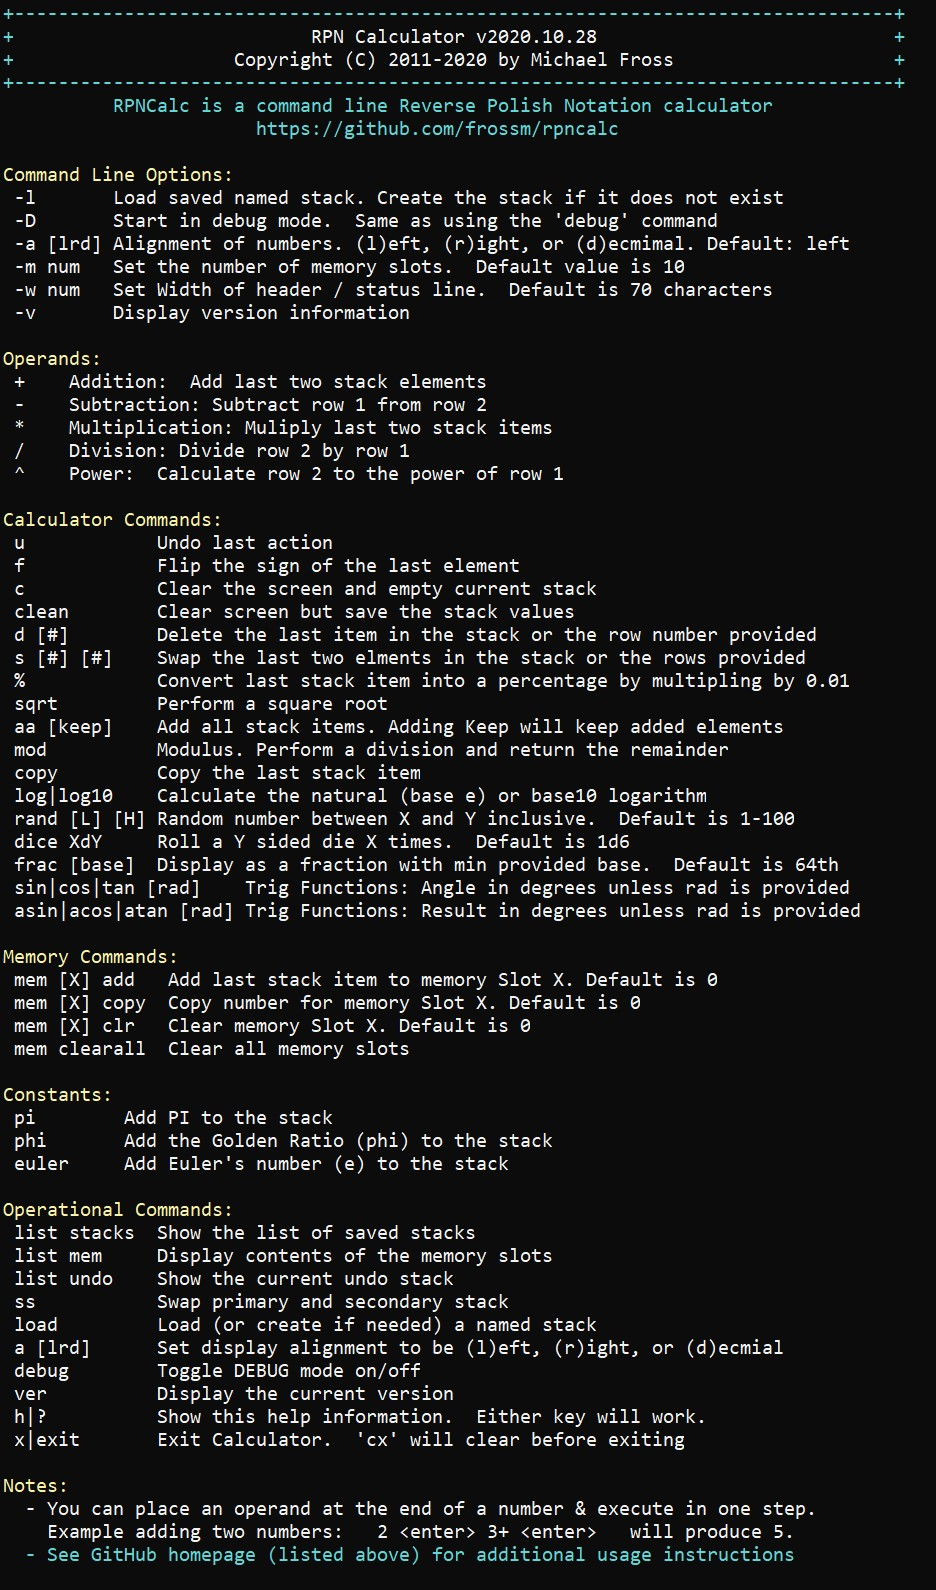
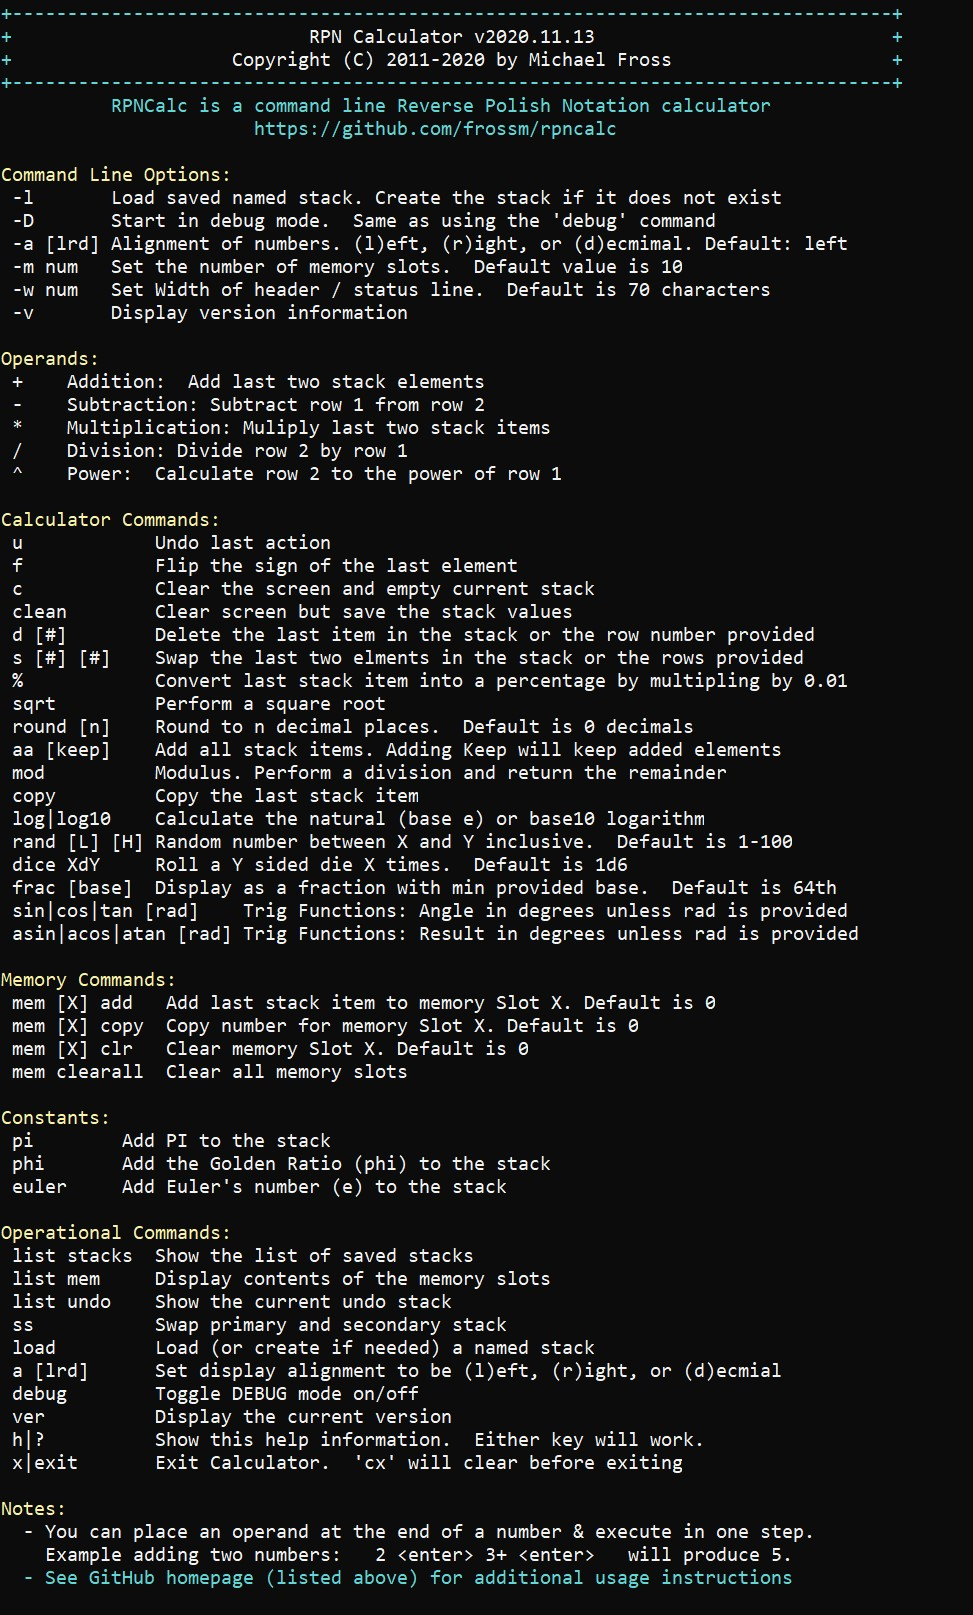
Added round [n] function

Changed region(s): [[0.0, 0.0, 0.9295, 0.9862], [0.8985, 0.0, 0.9295, 0.0616], [0.0, 0.0, 0.031, 0.0616]]

diff --git a/src/main/java/org/fross/rpncalc/StackOps.java b/src/main/java/org/fross/rpncalc/StackOps.java
@@ -26,6 +26,8 @@
  ******************************************************************************/
 package org.fross.rpncalc;
 
+import java.math.BigDecimal;
+import java.math.RoundingMode;
 import java.util.Stack;
 
 import org.fross.library.Debug;
@@ -346,6 +348,52 @@ public class StackOps {
 	}
 
 	/**
+	 * cmdRound(): Round to the provided decimal place. If none is provided round to the nearest integer
+	 * 
+	 * Reference: https://www.baeldung.com/java-round-decimal-number
+	 * 
+	 * @param arg
+	 */
+	@SuppressWarnings("unchecked")
+	public static void cmdRound(String arg) {
+		int decimalPlaces = 0;
+		BigDecimal bd;
+
+		// Ensure we have something on the stack
+		if (Main.calcStack.isEmpty()) {
+			Output.printColorln(Ansi.Color.RED, "ERROR:  There must be at least one item on the stack");
+			return;
+		}
+
+		// Save to undo stack
+		Main.undoStack.push((Stack<Double>) Main.calcStack.clone());
+
+		// Convert the arg to the number of decimal places
+		try {
+			decimalPlaces = Integer.parseInt(arg);
+			// Ensure a negative number is not provdied for decimal points to round
+			if (decimalPlaces <= 0) {
+				Output.printColorln(Ansi.Color.RED, "ERROR:  '" + arg + "' not a valid number of decimal places");
+				return;
+			}
+
+		} catch (NumberFormatException ex) {
+			if (arg.isBlank()) {
+				decimalPlaces = 0;
+			} else {
+				// Error out for any non-valid characters
+				Output.printColorln(Ansi.Color.RED, "ERROR:  '" + arg + "' not a valid number of decimal places");
+				return;
+			}
+		}
+
+		// Round the top of stack item and return that result to the stack
+		bd = new BigDecimal(Main.calcStack.pop());
+		bd = bd.setScale(decimalPlaces, RoundingMode.HALF_UP);
+		Main.calcStack.push(bd.doubleValue());
+	}
+
+	/**
 	 * cmdMod(): Divide and place the modulus onto the stack
 	 */
 	public static void cmdMod() {
@@ -396,7 +444,7 @@ public class StackOps {
 			Output.printColorln(Ansi.Color.RED, "Error parsing low and high parameters.  Low: '" + low + "' High: '" + high + "'");
 			return;
 		} catch (Exception e) {
-			Output.printColorln(Ansi.Color.RED, "Error:\n" + e.getMessage());
+			Output.printColorln(Ansi.Color.RED, "ERROR:\n" + e.getMessage());
 		}
 
 		// Display Debug Output
@@ -404,7 +452,7 @@ public class StackOps {
 
 		// Verify that the low number <= the high number
 		if (low > high) {
-			Output.printColorln(Ansi.Color.RED, "Error: the first number much be less than or equal to the high number");
+			Output.printColorln(Ansi.Color.RED, "ERROR: the first number much be less than or equal to the high number");
 			return;
 		}
 
@@ -491,7 +539,7 @@ public class StackOps {
 			Output.printColorln(Ansi.Color.RED, "Error parsing die and rolls.  Rolls: '" + rolls + "' Die: '" + die + "'");
 			return;
 		} catch (Exception e) {
-			Output.printColorln(Ansi.Color.RED, "Error:\n" + e.getMessage());
+			Output.printColorln(Ansi.Color.RED, "ERROR:\n" + e.getMessage());
 		}
 
 		// Display Debug Output
@@ -789,7 +837,7 @@ public class StackOps {
 					Output.printColorln(Ansi.Color.YELLOW, "Adding '" + argParse[1] + "' to Memory Slot #" + memSlot);
 					memorySlots[memSlot] = Main.calcStack.peek();
 				} else {
-					Output.printColorln(Ansi.Color.RED, "Error: There must be at least one value on the stack");
+					Output.printColorln(Ansi.Color.RED, "ERROR: There must be at least one value on the stack");
 				}
 				break;
 
@@ -823,7 +871,7 @@ public class StackOps {
 
 			default:
 				// Slot was valid number, but unknown mem command
-				Output.printColorln(Ansi.Color.RED, "Error: Unknown memory command: '" + argParse[1] + "'");
+				Output.printColorln(Ansi.Color.RED, "ERROR: Unknown memory command: '" + argParse[1] + "'");
 			}
 		} catch (Exception ex) {
 			Output.printColorln(Ansi.Color.RED, "Error parsing mem command: 'mem " + arg + "'  See help for mem command usage");

diff --git a/src/main/java/org/fross/rpncalc/Help.java b/src/main/java/org/fross/rpncalc/Help.java
@@ -75,6 +75,7 @@ public class Help {
 		Output.printColorln(Ansi.Color.WHITE, " s [#] [#]    Swap the last two elments in the stack or the rows provided");
 		Output.printColorln(Ansi.Color.WHITE, " %            Convert last stack item into a percentage by multipling by 0.01");
 		Output.printColorln(Ansi.Color.WHITE, " sqrt         Perform a square root");
+		Output.printColorln(Ansi.Color.WHITE, " round [n]    Round to n decimal places.  Default is 0 decimals");
 		Output.printColorln(Ansi.Color.WHITE, " aa [keep]    Add all stack items. Adding Keep will keep added elements");
 		Output.printColorln(Ansi.Color.WHITE, " mod          Modulus. Perform a division and return the remainder");
 		Output.printColorln(Ansi.Color.WHITE, " copy         Copy the last stack item");

diff --git a/src/main/java/org/fross/rpncalc/Main.java b/src/main/java/org/fross/rpncalc/Main.java
@@ -350,6 +350,11 @@ public class Main {
 				StackOps.cmdSqrt();
 				break;
 
+			// Round
+			case "round":
+				StackOps.cmdRound(cmdInputParam);
+				break;
+
 			// Swap Stack
 			case "ss":
 				StackOps.cmdSwapStack();

diff --git a/README.md b/README.md
@@ -123,6 +123,7 @@ The following is the list of operands supported by RPNCalc:
 |s \| swap [Line1] [Line2]|Swap the position of the top two stack items (line 1 & 2) with `s`.  You can swap any two line items in your stack by providing the two line numbers `s # #`|
 |%|Assumes line 1 contains a percent.  This converts that into a number by simply multiplying the last value by 0.01.  For example, if you want to take 50.123% of a number, you could just enter in `50.123 [ENTER] % [ENTER] *`|
 |sqrt|Perform a square root of the top item in the stack|
+|round [n]|Round the top stack item to [n] decimal places.  If [n] is not given, round to the nearest integer (zero decimal places).  Example1: `3.14159` `round` would round to `3`.  Example2: `3.14159` `round 4` would round to `3.1416`|
 |aa [keep]|Add all stack items together and return the result to the stack.  If the optional `keep` command is sent, the elements added will be retained and the total will be added to the top of the stack.  The entire `keep` command is not necessary, anything that starts with `k` will work|
 |mod|Modulus is the remainder after a division.  This command will perform a division of the top two stack items using the `/` operand and return the remainder only back to the stack|
 |copy| Adds a copy of the top stack item (line 1) back on the stack.  The result is you'll have two of the same items on top of the stack|
